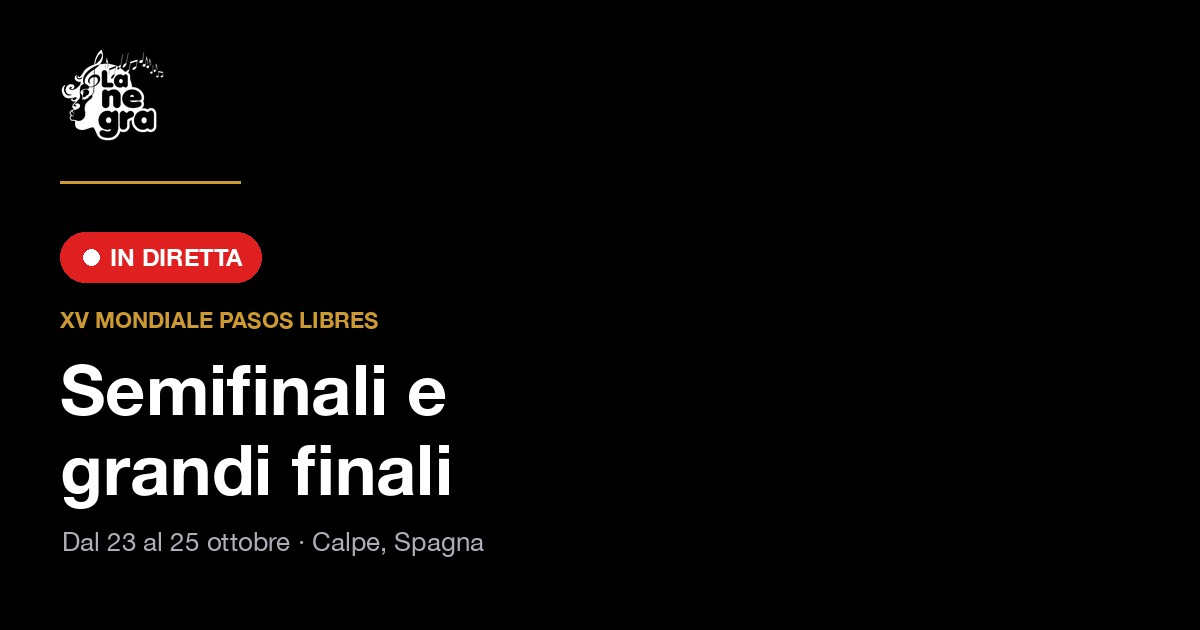
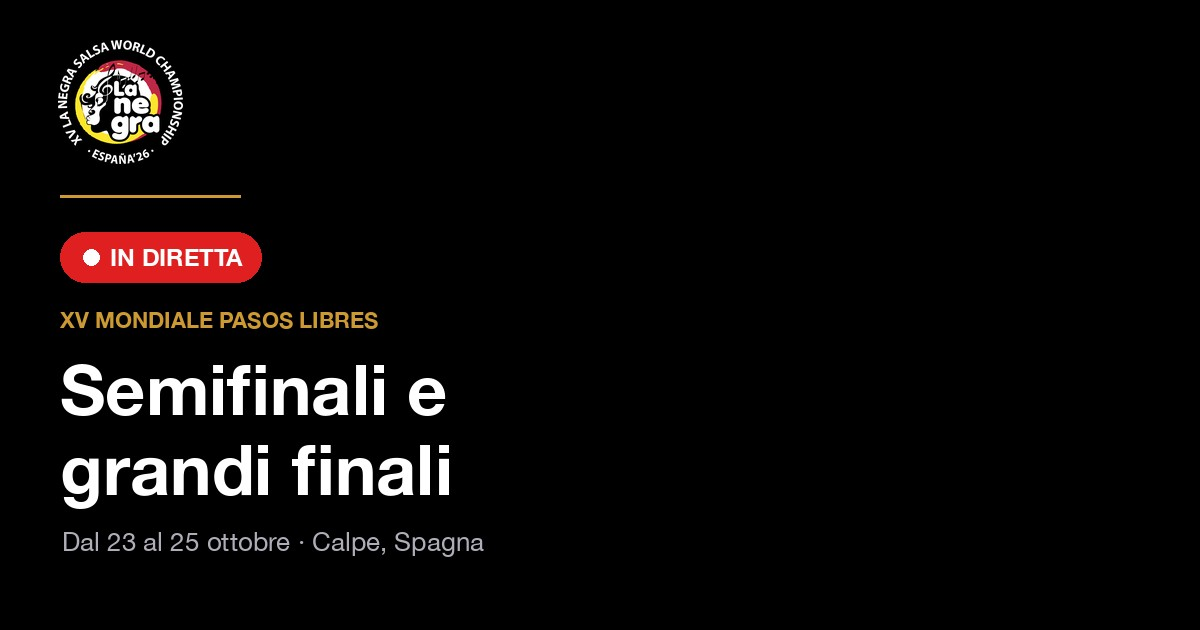
Marca · la chapa del campeonato en las imágenes de compartir y en el logotipo de Google.

Changed region(s): [[0.0308, 0.0603, 0.185, 0.3317]]

diff --git a/scripts/og.py b/scripts/og.py
@@ -24,7 +24,7 @@ BLANCO = (255, 255, 255)
 GRIS = (176, 172, 184)
 ROJO = (224, 32, 32)
 HELVETICA = "/System/Library/Fonts/HelveticaNeue.ttc"
-LOGO = "public/img/logo-lanegra-face.png"
+LOGO = "public/img/logo-campeonato.png"
 
 # archivo → (cejilla, [líneas del titular], pie, distintivo rojo opcional)
 IMAGENES = {
@@ -70,14 +70,13 @@ IMAGENES = {
 
 
 def pon_logo(lienzo):
-    """El logo es negro: sobre fondo oscuro se repinta en blanco."""
+    """La chapa del campeonato ya viene con su texto en blanco y su aro en
+    amarillo y granate: está pensada para fondo oscuro, así que va tal cual."""
     try:
         logo = Image.open(LOGO).convert("RGBA")
-        blanco = Image.new("RGBA", logo.size, BLANCO + (255,))
-        blanco.putalpha(logo.getchannel("A"))
-        alto = 94
-        blanco = blanco.resize((round(logo.width * alto / logo.height), alto), Image.LANCZOS)
-        lienzo.paste(blanco, (60, 48), blanco)
+        alto = 124
+        logo = logo.resize((round(logo.width * alto / logo.height), alto), Image.LANCZOS)
+        lienzo.paste(logo, (58, 40), logo)
     except Exception as e:  # sin logo antes que sin imagen
         print("  aviso · no se pudo poner el logo:", e)
 
@@ -102,7 +101,7 @@ def componer(nombre, cejilla, titulo, pie, marca):
     d = ImageDraw.Draw(lienzo)
 
     # Filete dorado fino bajo el logo: da estructura sin robar atención.
-    d.line([(60, 182), (240, 182)], fill=ORO, width=3)
+    d.line([(60, 196), (240, 196)], fill=ORO, width=3)
 
     # El bloque de texto se monta de abajo arriba para que el pie quede
     # siempre a la misma altura, tenga el titular una línea o dos.
